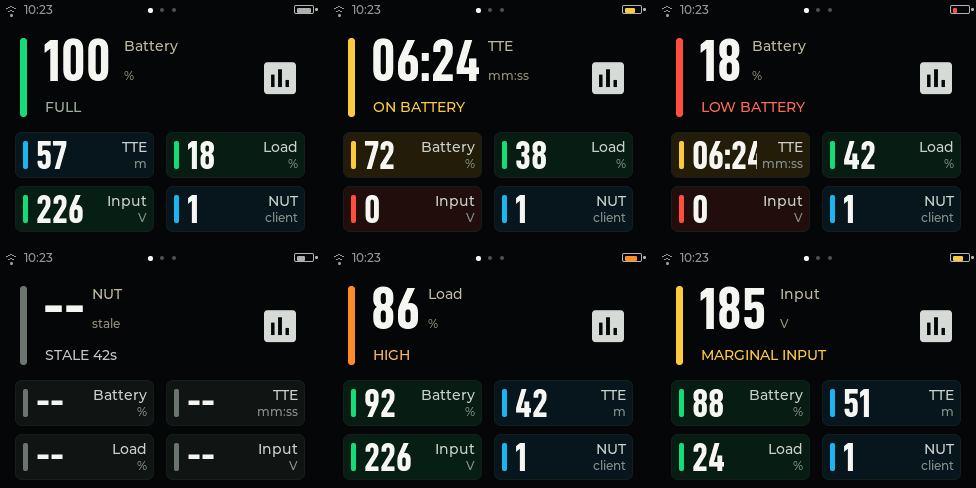
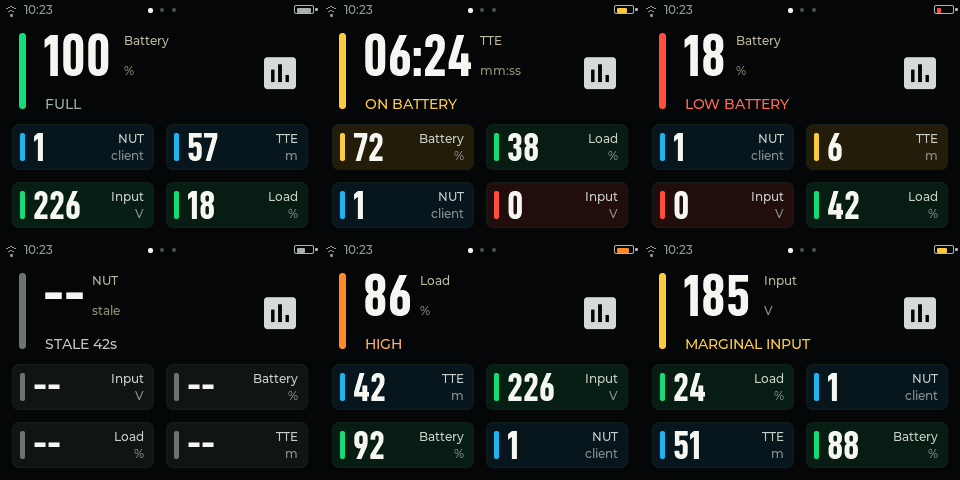
feat(ui): animate directional metric ring

diff --git a/firmware/core-s3-display/src/ledcards-interface-page.cpp b/firmware/core-s3-display/src/ledcards-interface-page.cpp
@@ -63,8 +63,19 @@ MetricKind touchHeroOverrideMetric = METRIC_BATTERY;
 uint32_t touchHeroOverrideUntilMs = 0;
 LedcardsInterfaceNutView lastRenderedView{};
 bool hasLastRenderedView = false;
+bool ringAnimationActive = false;
+lv_obj_t *ringAnimationOverlay = nullptr;
+LedcardsInterfaceNutView pendingAnimationView{};
+bool hasPendingAnimationView = false;
+
+struct SlotPosition {
+  int x;
+  int y;
+};
 
 static void render_nut_home(lv_obj_t *screen, const LedcardsInterfaceNutView &view);
+static void draw_nut_home_static(lv_obj_t *screen, const LedcardsInterfaceNutView &view);
+static void start_ring_transition(lv_obj_t *screen, MetricKind target, const LedcardsInterfaceNutView &view);
 
 static lv_color_t C(uint32_t hex) { return lv_color_hex(hex); }
 
@@ -364,18 +375,27 @@ static MetricKind choose_hero_metric(const LedcardsInterfaceNutView &view) {
 //   slot 3 bottom-left -> slot 4 top-left -> HERO.
 // Promoting any metric rotates the whole ring forward until that metric reaches HERO,
 // preserving the circular order seen on the reference device.
-static void rotate_metric_to_hero(MetricKind kind) {
-  int pos = -1;
+static int find_metric_slot_in_order(const MetricKind order[5], MetricKind kind) {
   for (int i = 0; i < 5; ++i) {
-    if (metricOrder[i] == kind) pos = i;
+    if (order[i] == kind) return i;
   }
+  return -1;
+}
+
+static void rotate_order_to_hero(const MetricKind source[5], MetricKind kind, MetricKind dest[5]) {
+  for (int i = 0; i < 5; ++i) dest[i] = source[i];
+  int pos = find_metric_slot_in_order(source, kind);
   if (pos <= 0) return;
-  MetricKind old[5];
-  for (int i = 0; i < 5; ++i) old[i] = metricOrder[i];
   int steps = (5 - pos) % 5;
   for (int i = 0; i < 5; ++i) {
-    metricOrder[(i + steps) % 5] = old[i];
+    dest[(i + steps) % 5] = source[i];
   }
+}
+
+static void rotate_metric_to_hero(MetricKind kind) {
+  MetricKind rotated[5];
+  rotate_order_to_hero(metricOrder, kind, rotated);
+  for (int i = 0; i < 5; ++i) metricOrder[i] = rotated[i];
 }
 
 static MetricKind accepted_hero_metric(const LedcardsInterfaceNutView &view) {
@@ -388,8 +408,8 @@ static MetricKind accepted_hero_metric(const LedcardsInterfaceNutView &view) {
   MetricKind candidate = choose_hero_metric(view);
   if (candidate == metricOrder[0]) return candidate;
   if (lastHeroSwapMs == 0 || view.nowMillis - lastHeroSwapMs >= kHeroCooldownMs) {
-    rotate_metric_to_hero(candidate);
     lastHeroSwapMs = view.nowMillis;
+    return candidate;
   }
   return metricOrder[0];
 }
@@ -431,23 +451,18 @@ static void chart_button(lv_obj_t *screen) {
   lv_obj_center(icon);
 }
 
-static void refresh_after_touch_override(void *) {
-  if (hasLastRenderedView) render_nut_home(lv_screen_active(), lastRenderedView);
-}
-
 static void on_tile_clicked(lv_event_t *event) {
-  if (lv_event_get_code(event) != LV_EVENT_CLICKED) return;
+  if (lv_event_get_code(event) != LV_EVENT_CLICKED || ringAnimationActive) return;
   uintptr_t raw = reinterpret_cast<uintptr_t>(lv_event_get_user_data(event));
   if (raw >= 5) return;
   touchHeroOverrideMetric = static_cast<MetricKind>(raw);
   uint32_t now = millis();
   touchHeroOverrideUntilMs = now + kTouchHeroOverrideMs;
   touchHeroOverrideActive = true;
-  rotate_metric_to_hero(touchHeroOverrideMetric);
-  if (hasLastRenderedView) lv_async_call(refresh_after_touch_override, nullptr);
+  if (hasLastRenderedView) start_ring_transition(lv_screen_active(), touchHeroOverrideMetric, lastRenderedView);
 }
 
-static void tile(lv_obj_t *screen, int x, int y, const MetricRender &m) {
+static lv_obj_t *tile(lv_obj_t *screen, int x, int y, const MetricRender &m, bool clickable = true) {
   lv_obj_t *t = box(screen, x, y, 142, 46, 7, m.fill, 0x141e1b);
   box(t, 7, 8, 5, 28, 3, m.accent, 0);
   lv_obj_t *name_l = label(t, m.label, 76, 6, 55, &lv_font_montserrat_12, 0xc9d0c9);
@@ -458,13 +473,110 @@ static void tile(lv_obj_t *screen, int x, int y, const MetricRender &m) {
   // Mini-card TTE is minutes-only because clock-form values such as "06:24"
   // are too tight for this physical TFT/card geometry.
   label(t, m.value, 20, 8, 58, &ps_font_ddin_condensed_bold_40, 0xf5f6f2);
-  lv_obj_t *hit = lv_obj_create(t);
-  lv_obj_remove_style_all(hit);
-  lv_obj_set_size(hit, 142, 46);
-  lv_obj_set_pos(hit, 0, 0);
-  lv_obj_add_flag(hit, LV_OBJ_FLAG_CLICKABLE);
-  lv_obj_set_scrollbar_mode(hit, LV_SCROLLBAR_MODE_OFF);
-  lv_obj_add_event_cb(hit, on_tile_clicked, LV_EVENT_CLICKED, reinterpret_cast<void *>(static_cast<uintptr_t>(m.kind)));
+  if (clickable) {
+    lv_obj_t *hit = lv_obj_create(t);
+    lv_obj_remove_style_all(hit);
+    lv_obj_set_size(hit, 142, 46);
+    lv_obj_set_pos(hit, 0, 0);
+    lv_obj_add_flag(hit, LV_OBJ_FLAG_CLICKABLE);
+    lv_obj_set_scrollbar_mode(hit, LV_SCROLLBAR_MODE_OFF);
+    lv_obj_add_event_cb(hit, on_tile_clicked, LV_EVENT_CLICKED, reinterpret_cast<void *>(static_cast<uintptr_t>(m.kind)));
+  }
+  return t;
+}
+
+static SlotPosition slot_position(int slot) {
+  switch (slot) {
+    case 0: return {43, 57};
+    case 1: return {166, 124};
+    case 2: return {166, 182};
+    case 3: return {12, 182};
+    default: return {12, 124};
+  }
+}
+
+static void anim_set_x(void *obj, int32_t v) { lv_obj_set_x(static_cast<lv_obj_t *>(obj), v); }
+static void anim_set_y(void *obj, int32_t v) { lv_obj_set_y(static_cast<lv_obj_t *>(obj), v); }
+
+static void finish_ring_animation_async(void *) {
+  lv_obj_t *screen = lv_screen_active();
+  if (ringAnimationOverlay) {
+    lv_obj_delete(ringAnimationOverlay);
+    ringAnimationOverlay = nullptr;
+  }
+  ringAnimationActive = false;
+  LedcardsInterfaceNutView view = hasPendingAnimationView ? pendingAnimationView : lastRenderedView;
+  hasPendingAnimationView = false;
+  draw_nut_home_static(screen, view);
+}
+
+static void finish_ring_animation(lv_anim_t *) {
+  lv_async_call(finish_ring_animation_async, nullptr);
+}
+
+static void animate_obj_pos(lv_obj_t *obj, SlotPosition from, SlotPosition to, bool finish) {
+  constexpr uint32_t kRingAnimationMs = 210;
+  lv_anim_t ax;
+  lv_anim_init(&ax);
+  lv_anim_set_var(&ax, obj);
+  lv_anim_set_values(&ax, from.x, to.x);
+  lv_anim_set_duration(&ax, kRingAnimationMs);
+  lv_anim_set_exec_cb(&ax, anim_set_x);
+  lv_anim_start(&ax);
+
+  lv_anim_t ay;
+  lv_anim_init(&ay);
+  lv_anim_set_var(&ay, obj);
+  lv_anim_set_values(&ay, from.y, to.y);
+  lv_anim_set_duration(&ay, kRingAnimationMs);
+  lv_anim_set_exec_cb(&ay, anim_set_y);
+  if (finish) lv_anim_set_completed_cb(&ay, finish_ring_animation);
+  lv_anim_start(&ay);
+}
+
+static void start_ring_transition(lv_obj_t *screen, MetricKind target, const LedcardsInterfaceNutView &view) {
+  if (ringAnimationActive) {
+    pendingAnimationView = view;
+    hasPendingAnimationView = true;
+    return;
+  }
+  if (target == metricOrder[0]) {
+    draw_nut_home_static(screen, view);
+    return;
+  }
+
+  MetricKind oldOrder[5];
+  MetricKind newOrder[5];
+  for (int i = 0; i < 5; ++i) oldOrder[i] = metricOrder[i];
+  rotate_order_to_hero(oldOrder, target, newOrder);
+  if (newOrder[0] == oldOrder[0]) {
+    draw_nut_home_static(screen, view);
+    return;
+  }
+
+  const LedcardsInterfaceNutView overlayView = hasLastRenderedView ? lastRenderedView : view;
+  for (int i = 0; i < 5; ++i) metricOrder[i] = newOrder[i];
+  pendingAnimationView = view;
+  hasPendingAnimationView = true;
+  ringAnimationActive = true;
+
+  if (ringAnimationOverlay) lv_obj_delete(ringAnimationOverlay);
+  ringAnimationOverlay = lv_obj_create(screen);
+  lv_obj_remove_style_all(ringAnimationOverlay);
+  lv_obj_set_pos(ringAnimationOverlay, 0, 0);
+  lv_obj_set_size(ringAnimationOverlay, 320, 240);
+  lv_obj_add_flag(ringAnimationOverlay, LV_OBJ_FLAG_CLICKABLE);
+  lv_obj_set_scrollbar_mode(ringAnimationOverlay, LV_SCROLLBAR_MODE_OFF);
+
+  for (int oldSlot = 0; oldSlot < 5; ++oldSlot) {
+    MetricKind kind = oldOrder[oldSlot];
+    int newSlot = find_metric_slot_in_order(newOrder, kind);
+    SlotPosition from = slot_position(oldSlot);
+    SlotPosition to = slot_position(newSlot < 0 ? oldSlot : newSlot);
+    lv_obj_t *ghost = tile(ringAnimationOverlay, from.x, from.y, metric_for(kind, overlayView, true), false);
+    lv_obj_set_style_opa(ghost, LV_OPA_80, 0);
+    animate_obj_pos(ghost, from, to, oldSlot == 4);
+  }
 }
 
 static int hero_label_x(const MetricRender &hero) {
@@ -474,7 +586,7 @@ static int hero_label_x(const MetricRender &hero) {
   return 96;
 }
 
-static void render_nut_home(lv_obj_t *screen, const LedcardsInterfaceNutView &view) {
+static void draw_nut_home_static(lv_obj_t *screen, const LedcardsInterfaceNutView &view) {
   lastRenderedView = view;
   hasLastRenderedView = true;
   lv_obj_clean(screen);
@@ -482,7 +594,7 @@ static void render_nut_home(lv_obj_t *screen, const LedcardsInterfaceNutView &vi
   lv_obj_set_style_bg_opa(screen, LV_OPA_COVER, 0);
   set_no_border(screen);
 
-  MetricKind heroKind = accepted_hero_metric(view);
+  MetricKind heroKind = metricOrder[0];
   MetricRender hero = metric_for(heroKind, view);
   top_status(screen, view, hero.accent);
 
@@ -499,6 +611,20 @@ static void render_nut_home(lv_obj_t *screen, const LedcardsInterfaceNutView &vi
   for (int i = 1; i < 5; ++i) {
     tile(screen, xs[i - 1], ys[i - 1], metric_for(metricOrder[i], view, true));
   }
+}
+
+static void render_nut_home(lv_obj_t *screen, const LedcardsInterfaceNutView &view) {
+  if (ringAnimationActive) {
+    pendingAnimationView = view;
+    hasPendingAnimationView = true;
+    return;
+  }
+  MetricKind target = accepted_hero_metric(view);
+  if (target != metricOrder[0]) {
+    start_ring_transition(screen, target, view);
+    return;
+  }
+  draw_nut_home_static(screen, view);
 }
 
 }  // namespace

diff --git a/tools/check_core_s3_ui.py b/tools/check_core_s3_ui.py
@@ -169,9 +169,20 @@ def main() -> int:
         return fail("Ledcards Interface mini-card missing value/unit foreground markers")
     if mini_value_idx < mini_unit_idx:
         return fail("Ledcards Interface mini-card value must be created after label/unit objects so it stays in foreground")
-    for needle in ["lv_obj_add_flag(hit, LV_OBJ_FLAG_CLICKABLE)", "lv_obj_add_event_cb(hit, on_tile_clicked, LV_EVENT_CLICKED", "lv_async_call(refresh_after_touch_override, nullptr)"]:
+    for needle in ["lv_obj_add_flag(hit, LV_OBJ_FLAG_CLICKABLE)", "lv_obj_add_event_cb(hit, on_tile_clicked, LV_EVENT_CLICKED", "start_ring_transition(lv_screen_active(), touchHeroOverrideMetric, lastRenderedView)"]:
         if needle not in ledcards_interface_text:
             return fail(f"Ledcards Interface mini-card touch-to-hero override missing {needle}")
+    required_ring_animation = [
+        "ringAnimationActive", "ringAnimationOverlay", "pendingAnimationView",
+        "rotate_order_to_hero", "find_metric_slot_in_order", "slot_position",
+        "kRingAnimationMs = 210", "lv_anim_set_exec_cb(&ax, anim_set_x)",
+        "lv_anim_set_exec_cb(&ay, anim_set_y)", "lv_anim_set_completed_cb(&ay, finish_ring_animation)",
+        "tile(ringAnimationOverlay, from.x, from.y, metric_for(kind, overlayView, true), false)",
+        "lv_obj_add_flag(ringAnimationOverlay, LV_OBJ_FLAG_CLICKABLE)",
+    ]
+    for needle in required_ring_animation:
+        if needle not in ledcards_interface_text:
+            return fail(f"Ledcards Interface ring animation contract missing {needle}")
     if "PS_NUT_HOME_STATE ==" in ledcards_interface_text:
         return fail("Ledcards Interface firmware page must no longer be selected by compile-time PS_NUT_HOME_STATE")
     for needle in ["LedcardsInterfaceNutView makeLedcardsInterfaceNutView()", "createLedcardsInterfaceUi(makeLedcardsInterfaceNutView())", "updateLedcardsInterfaceUi(makeLedcardsInterfaceNutView())"]:

diff --git a/DESIGN.md b/DESIGN.md
@@ -348,12 +348,12 @@ Selection/ordering rule:
 
 1. Pick candidate hero metric by severity/usefulness.
 2. Apply a short hero-swap cooldown before accepting a different hero, so transient sensor flips do not cause rapid visual churn. Start with a few seconds; tune on hardware after observing real data jitter.
-3. When a hero swap is accepted, move that metric to position `n1` in the ordered five-slot stack and keep the previous hero/order behind it by recency of hero appearance.
-4. Render positions `n2` and `n3` as the first mini-card row, and positions `n4` and `n5` as the second mini-card row.
-5. If no swap is accepted, preserve the current ordering.
-6. A mini-card tap may temporarily promote that metric to hero for 60 seconds. This touch override does not permanently reorder the five-slot stack; when it expires, normal severity/priority hero selection resumes.
+3. When a hero swap is accepted, rotate the directional five-slot ring forward until the selected metric reaches `HERO`; do not move/promote it as a list item.
+4. Render slot `1` as top-right, slot `2` as bottom-right, slot `3` as bottom-left, and slot `4` as top-left.
+5. If no swap is accepted, preserve the current ring order.
+6. A mini-card tap may temporarily rotate that metric to hero for 60 seconds. When the override expires, normal severity/priority hero selection resumes and may rotate the ring again.
 
-This means the mini-card order is a product of accepted hero swaps, not a static table. The current hero is never duplicated in the mini-cards.
+This means the mini-card order is a product of accepted ring rotations, not a static table or row-major list. The current hero is never duplicated in the mini-cards.
 
 Examples:
 
@@ -365,6 +365,14 @@ Examples:
 - Hero `Input` from the default ring -> mini-cards should be `NUT client` top-right, `Battery` bottom-right, `TTE` bottom-left, `Load` top-left.
 
 Do not keep a mini-card just because the old static grid had it. If the hero already shows that field, swap in the next useful fact.
+
+Animation contract:
+
+- Accepted automatic swaps and touch overrides should visually move the current metric cards as a short chain along the same ring: `HERO -> top-right -> bottom-right -> bottom-left -> top-left -> HERO`.
+- The implementation may use compact ghost cards for the hero/mini handoff; the final committed frame must normalize back to the exact hero and mini-card templates above.
+- Animation should be short (~200 ms), position-only, and clip-safe. Avoid blur, glass, shadows, full-screen transforms, or expensive opacity over large regions.
+- While a ring animation is active, ignore/debounce further mini-card touches and queue the latest telemetry view for the final redraw.
+- Static fallback/final render must preserve the phase-1 ring semantics even if animation is unavailable.
 
 #### Hero state label contract
 

diff --git a/docs/architecture/ledcards-interface-adaptive-overview-exploration.md b/docs/architecture/ledcards-interface-adaptive-overview-exploration.md
@@ -188,10 +188,11 @@ Runtime behavior:
 1. Hero candidate priority is stale/unavailable -> `NUT`, low battery -> `Battery`, on battery -> `TTE`, high load -> `Load`, marginal input -> `Input`, otherwise `Battery`.
 2. The active hero is held behind `kHeroCooldownMs` so noisy telemetry does not flicker the whole page.
 3. Accepted hero swaps rotate the directional five-slot ring (`HERO -> top-right -> bottom-right -> bottom-left -> top-left -> HERO`) until that metric reaches `HERO`. The four mini-cards are the next four ring slots, so the hero never appears twice and circular order is preserved.
-4. Tapping a mini-card temporarily rotates that metric to the hero for 60 seconds, overriding the default priority. After expiry the normal severity/priority hero selection resumes and may rotate the ring again after cooldown.
-5. Unknown/stale values render as `--` with gray accent/fill. No live firmware path uses the previous compile-time demo constants.
-6. `TTE` is context-sensitive: hero uses full `mm:ss`; mini-cards use rounded whole minutes with generic unit `m` to avoid physical TFT clipping in the 142x46 card geometry and to fit single-digit values cleanly.
-7. `NUT` client count is cyan for one or more clients, orange for zero expected clients, and gray for unknown/stale. It remains read-only telemetry only.
+4. The live page now animates accepted automatic swaps and touch overrides with a short (~210 ms) position-only chain: compact ghost cards move from their old slots to their new slots, touch is blocked during the transition, and the final frame redraws with the exact hero/mini templates.
+5. Tapping a mini-card temporarily rotates that metric to the hero for 60 seconds, overriding the default priority. After expiry the normal severity/priority hero selection resumes and may rotate the ring again after cooldown.
+6. Unknown/stale values render as `--` with gray accent/fill. No live firmware path uses the previous compile-time demo constants.
+7. `TTE` is context-sensitive: hero uses full `mm:ss`; mini-cards use rounded whole minutes with generic unit `m` to avoid physical TFT clipping in the 142x46 card geometry and to fit single-digit values cleanly.
+8. `NUT` client count is cyan for one or more clients, orange for zero expected clients, and gray for unknown/stale. It remains read-only telemetry only.
 
 ## Render artifacts from exploration
 